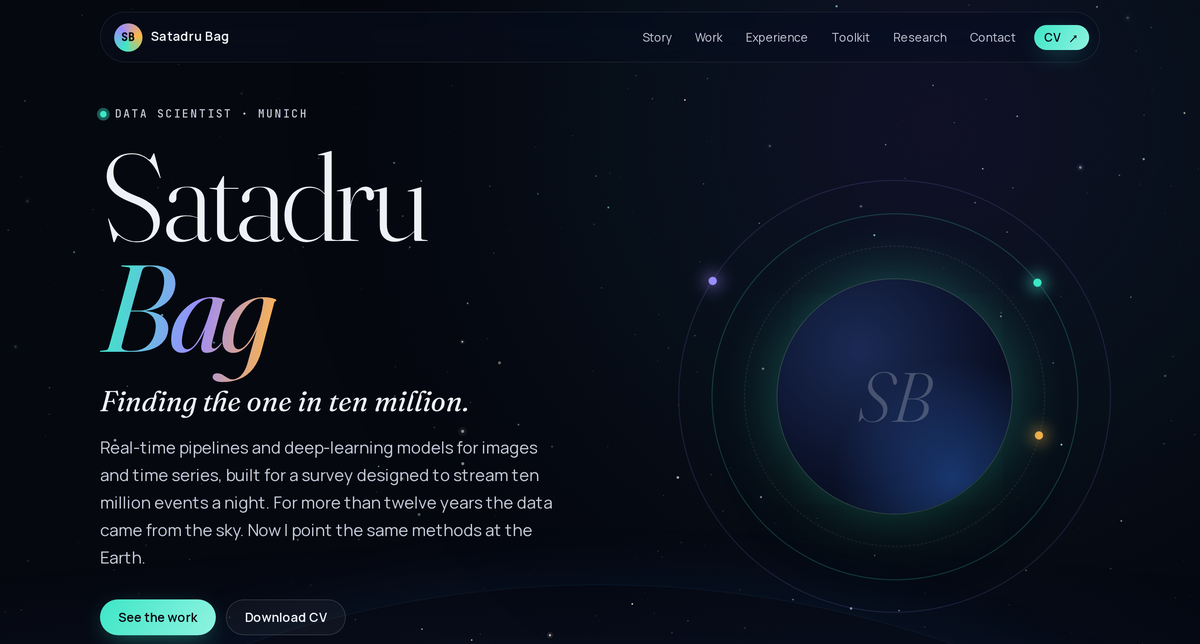
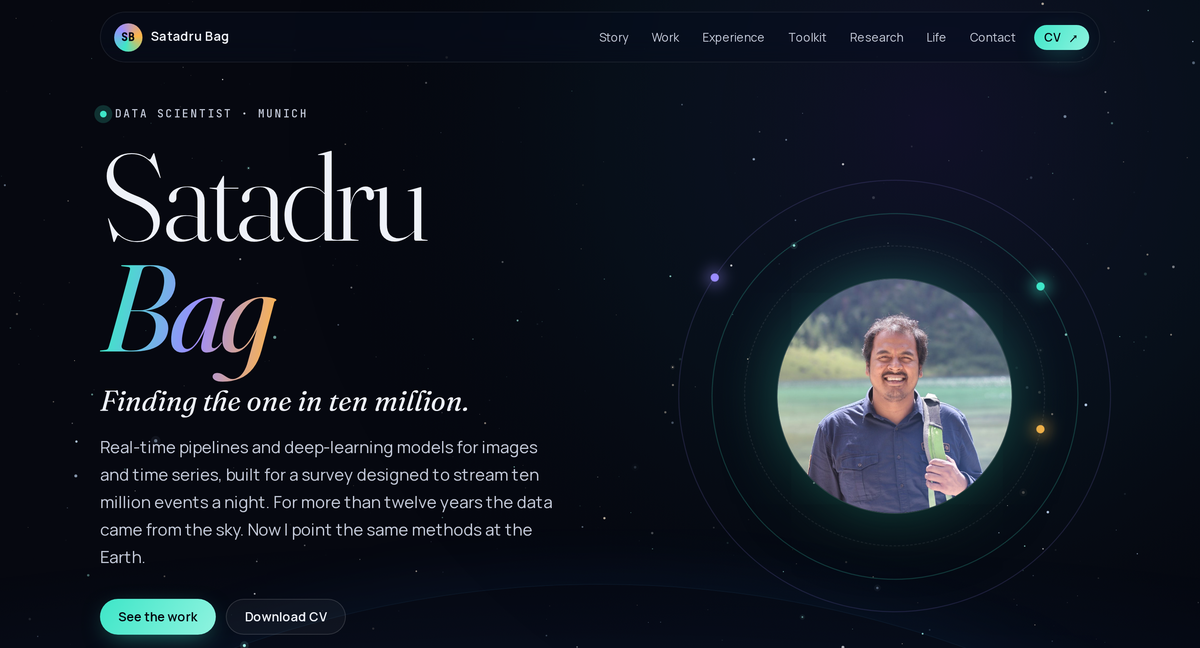
Link preview: first screen with portrait

diff --git a/index.html b/index.html
@@ -196,7 +196,7 @@
         <div class="dash__bar"><i></i><i></i><i></i><span>live dashboard</span><b class="pulse"></b></div>
         <div class="dash__body"><span class="anim-slot__art anim-slot__art--dash"></span></div>
       </div>
-<div class="echo-links"><a class="link echo-try" href="pipeline/?v=202611222127" target="_blank" rel="noopener">Try it yourself: pick a time window and start a demo run <span aria-hidden="true">↗</span></a></div>    </div>
+<div class="echo-links"><a class="link echo-try" href="pipeline/?v=202611222132" target="_blank" rel="noopener">Try it yourself: pick a time window and start a demo run <span aria-hidden="true">↗</span></a></div>    </div>
   </article>
   <article class="card feature reveal" id="project-oasis">
     <div class="feature__body">
@@ -217,7 +217,7 @@
       </div>
       <p class="echo-note">Simulated survey images; numbers are held-out test-set results from the paper.</p>
       <div class="echo-links">
-        <a class="link echo-try" href="oasis/?v=202611222127" target="_blank" rel="noopener">Try it yourself: watch a stream arrive, image by image <span aria-hidden="true">↗</span></a>
+        <a class="link echo-try" href="oasis/?v=202611222132" target="_blank" rel="noopener">Try it yourself: watch a stream arrive, image by image <span aria-hidden="true">↗</span></a>
       </div>
     </div>
   </article>
@@ -238,7 +238,7 @@
       </div>
       <p class="echo-note">Simulated. On real data: 29.6 ± 1.5 days vs 33.7 ± 2.7 from the separated images.</p>
       <div class="echo-links">
-        <a class="link echo-try" href="echo/?v=202611222127" target="_blank" rel="noopener">Try it yourself: the interactive explorer <span aria-hidden="true">↗</span></a>
+        <a class="link echo-try" href="echo/?v=202611222132" target="_blank" rel="noopener">Try it yourself: the interactive explorer <span aria-hidden="true">↗</span></a>
 <a class="link" href="https://github.com/deltasata/hidden-echo" target="_blank" rel="noopener"><span class="link__full">github.com/deltasata/hidden-echo</span><span class="link__short">View on GitHub</span> <span aria-hidden="true">↗</span></a><p class="paperlinks"><a class="link link--paper" href="https://arxiv.org/abs/2110.15315" target="_blank" rel="noopener">ApJ 927, 191 (2022): method <span aria-hidden="true">↗</span></a><a class="link link--paper" href="https://arxiv.org/abs/2209.11078" target="_blank" rel="noopener">ApJ 950, 158 (2023): proof <span aria-hidden="true">↗</span></a></p>      </div>
     </div>
   </article>
